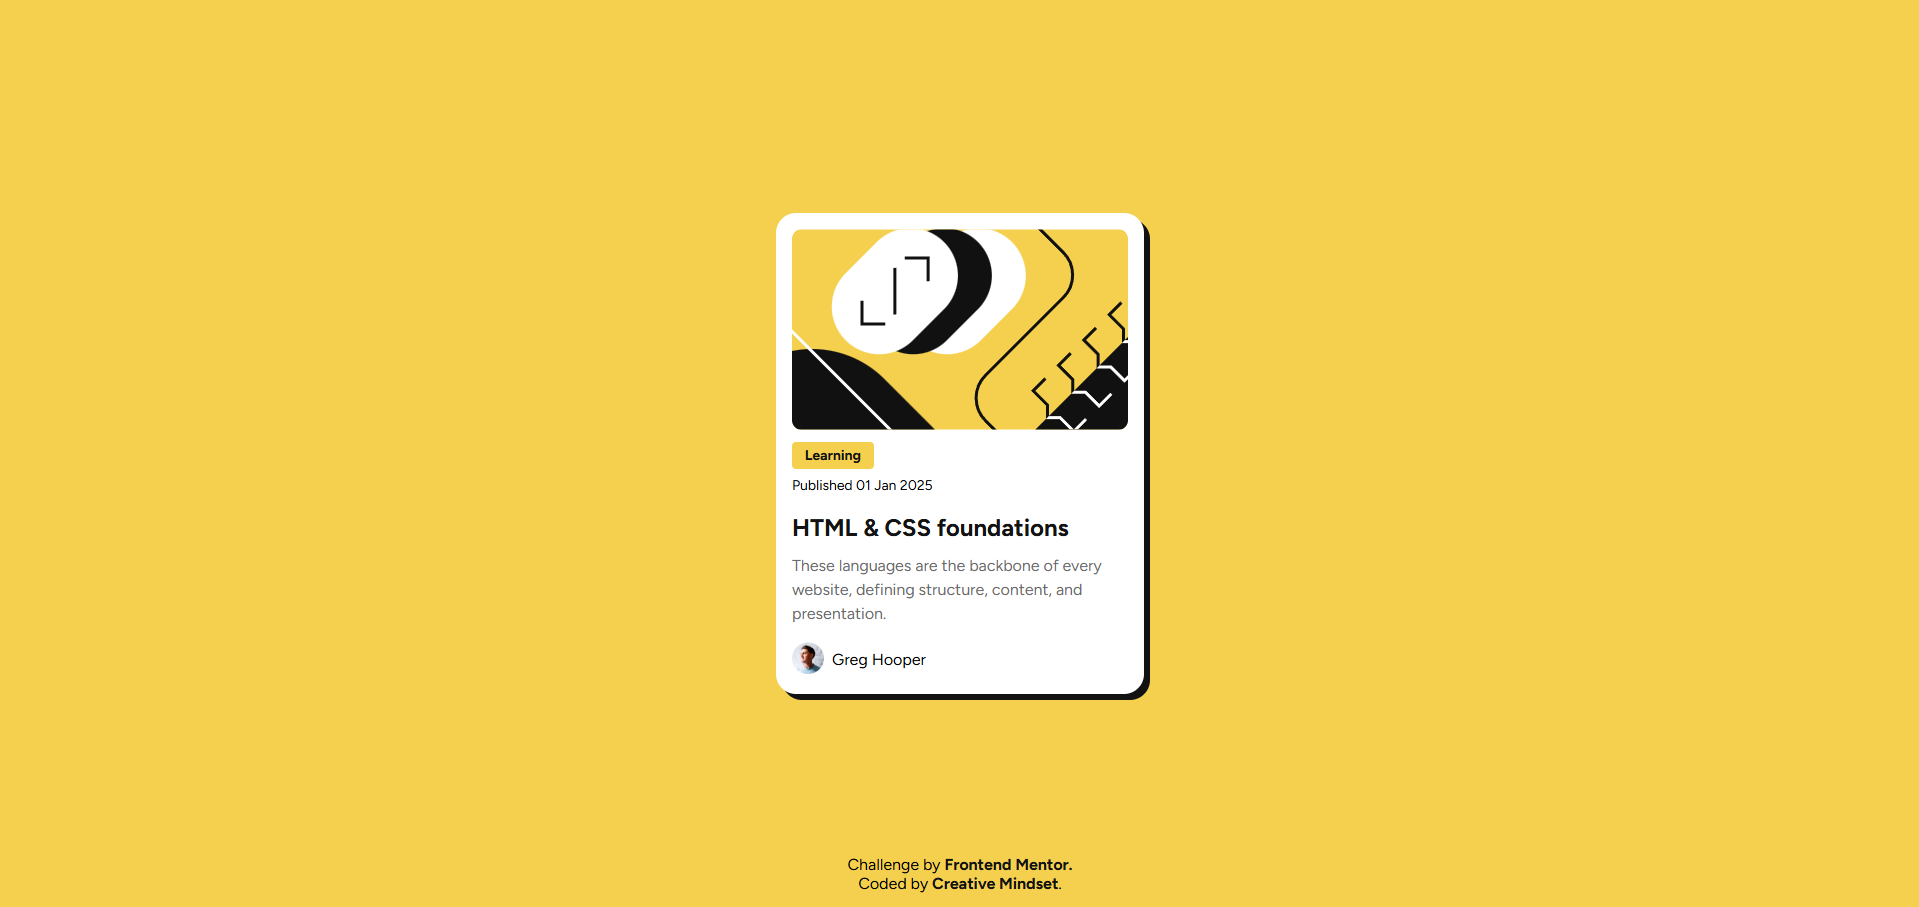
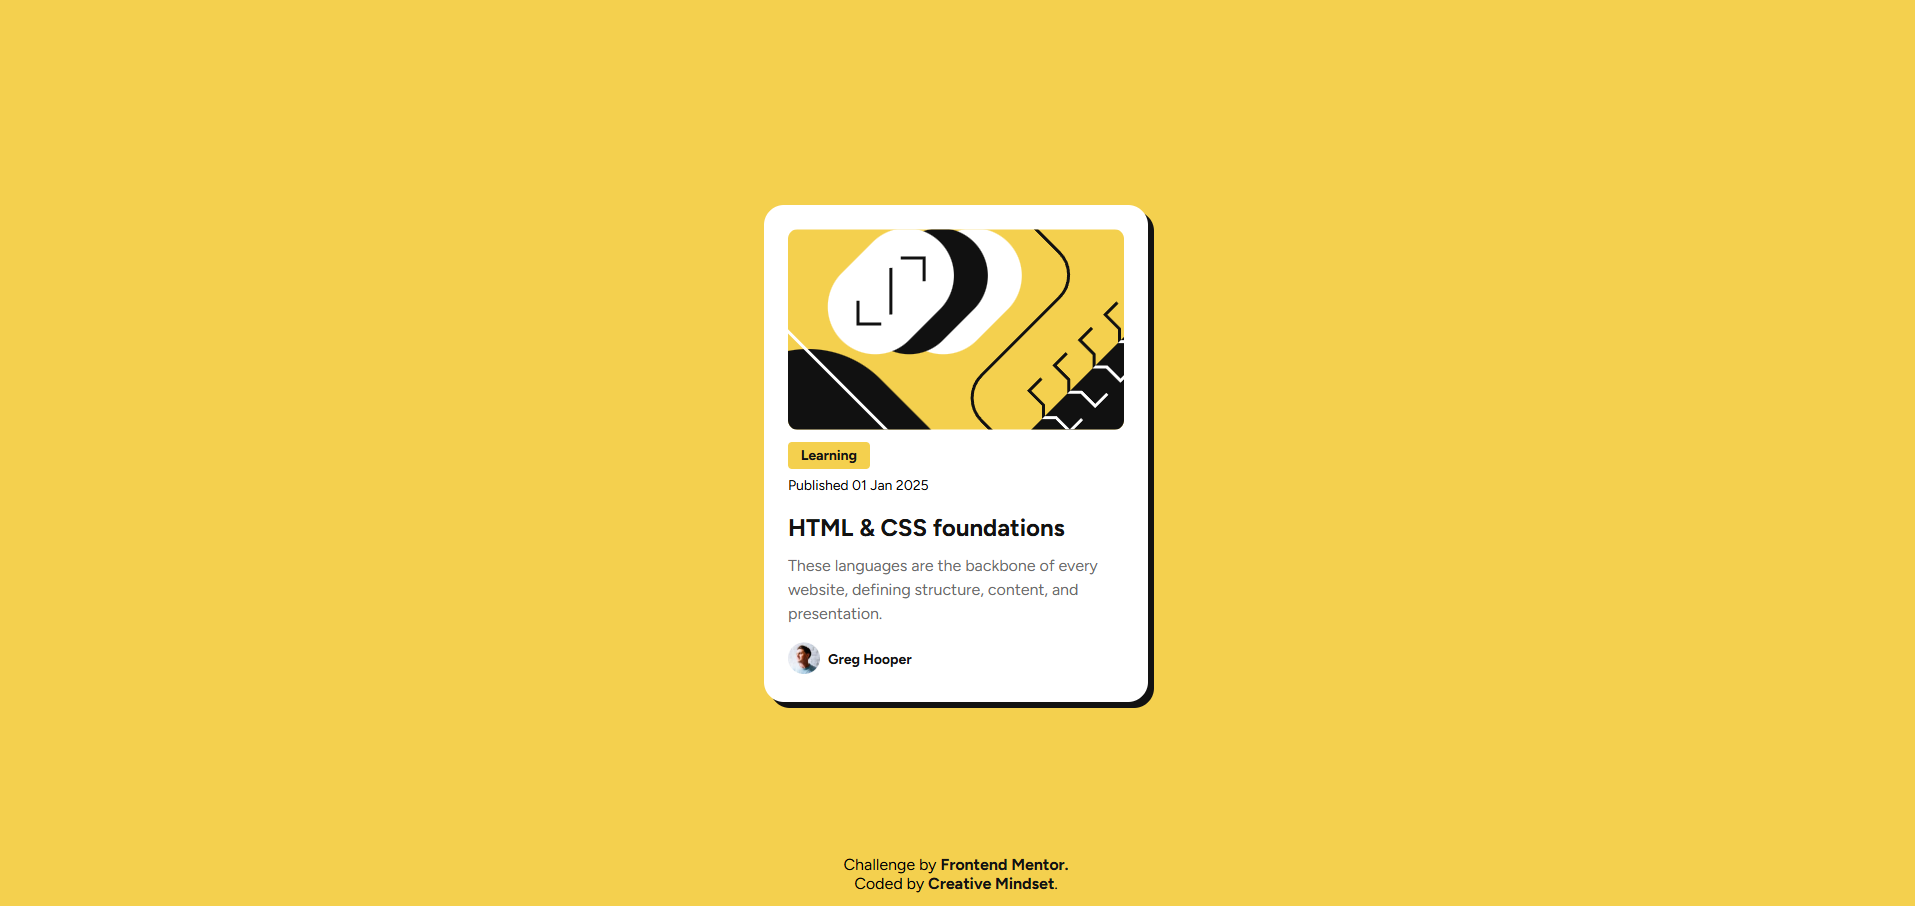
reduced the padding of the card

Changed region(s): [[0.4005, 0.2163, 0.6162, 0.8035], [0.4313, 0.9272, 0.5546, 0.989]]

diff --git a/Blog preview card/style.css b/Blog preview card/style.css
@@ -38,7 +38,7 @@ main {
   align-items: center;
   justify-content: center;
   flex-direction: column;
-  padding: 1.5rem;
+  padding: 1rem;
   gap: 0.5rem;
   border-radius: 20px;
   box-shadow: 6px 6px hsl(0, 0%, 7%);
